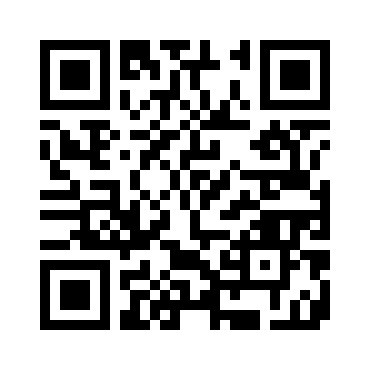
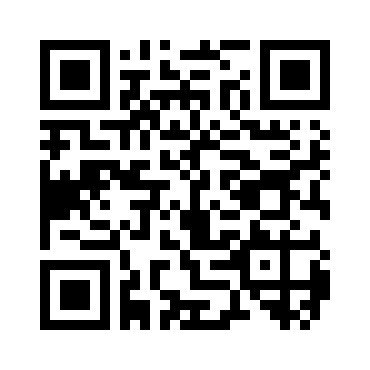
Update USDT Polygon and USDC Polygon Address 1 to 0x526F1629c3624643199c15d6eC2EBdF3Fde49265 with new QR

Changed region(s): [[0.2973, 0.2973, 0.8919, 0.8919], [0.327, 0.0892, 0.6838, 0.2676], [0.0892, 0.327, 0.2676, 0.6838]]

diff --git a/escrow_bot.py b/escrow_bot.py
@@ -96,7 +96,7 @@ BSC_DEPOSIT_ADDRESSES = [
 ]
 
 POLYGON_DEPOSIT_ADDRESSES = [
-    "0xFEc3e5E0cca5a924D0aD450DCF9fB13a51E4138F",  # Address 1
+    "0x526F1629c3624643199c15d6eC2EBdF3Fde49265",  # Address 1
     "0xf282e789e835ed379aea84ece204d2d643e6774f"   # Address 2
 ]
 
@@ -116,7 +116,7 @@ USDC_BSC_DEPOSIT_ADDRESSES = [
 ]
 
 # USDC Polygon - Address 1 only (Address 2 = same as Address 1)
-USDC_POLYGON_DEPOSIT_ADDRESS = "0x6a2757F5987a845D77f3DB441a3d0aB50a3A3A98"  # Address 1
+USDC_POLYGON_DEPOSIT_ADDRESS = "0x526F1629c3624643199c15d6eC2EBdF3Fde49265"  # Address 1
 USDC_POLYGON_QR_IMAGE = "usdc_polygon_address1_qr.jpg"  # QR for Address 1
 
 # USDC Solana
